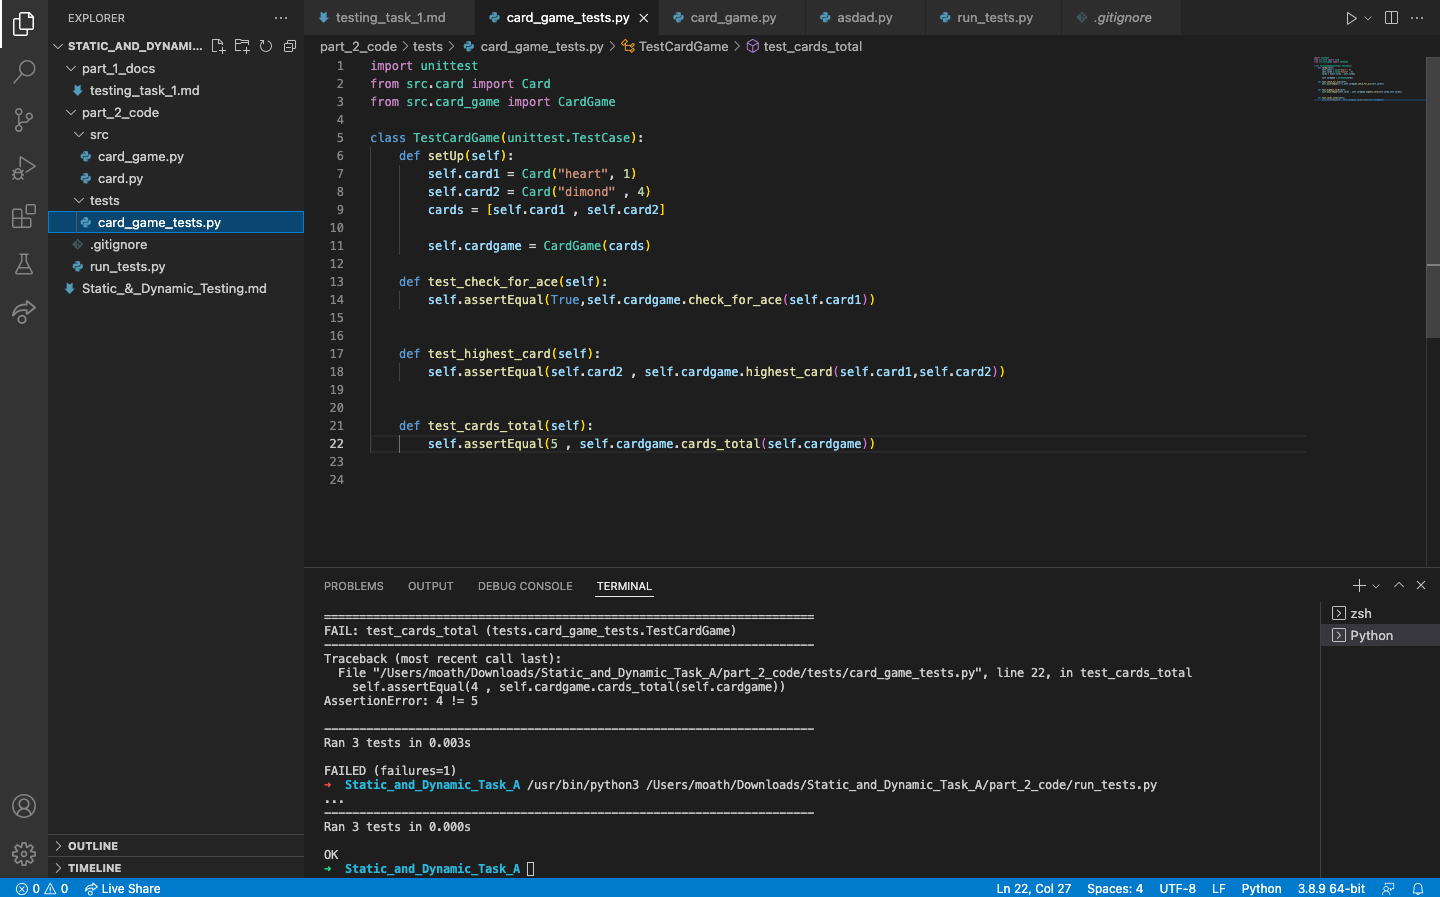
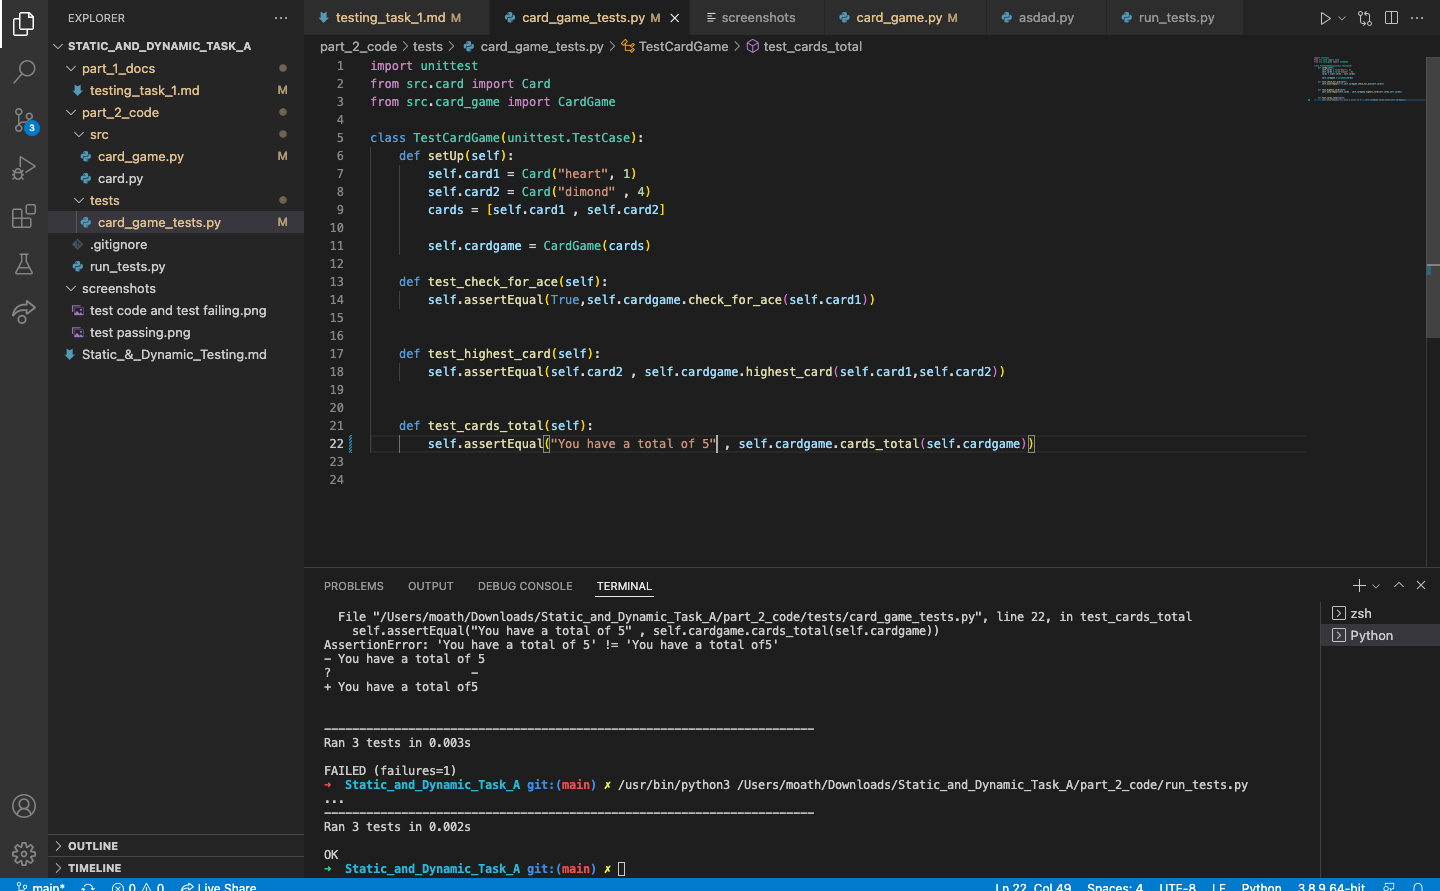
done1

diff --git a/part_2_code/tests/card_game_tests.py b/part_2_code/tests/card_game_tests.py
@@ -19,5 +19,5 @@ class TestCardGame(unittest.TestCase):
 
 
     def test_cards_total(self):
-        self.assertEqual(5 , self.cardgame.cards_total(self.cardgame))      
+        self.assertEqual("You have a total of 5" , self.cardgame.cards_total(self.cardgame))      
 

diff --git a/part_2_code/src/card_game.py b/part_2_code/src/card_game.py
@@ -29,4 +29,4 @@ class CardGame:
    total = 0
    for card in self.cards:
        total += card.value
-   return total  
+   return "You have a total of " + str(total)  

diff --git a/part_1_docs/testing_task_1.md b/part_1_docs/testing_task_1.md
@@ -18,13 +18,13 @@ class CardGame:     # the class should have atributes
 
 
   def check_for_ace(self, card):
-    if card.value = 1:
+    if card.value = 1:  # it should be == instaed of = 
       return True
-    else
+    else                # else : 
       return False
    
 
-  dif highest_card(self, card1 card2):     # def not dif 
+  dif highest_card(self, card1 card2):     # def not dif  and a comma between card1 and card2 
   if card1.value > card2.value:
     return card
   else:
@@ -32,10 +32,10 @@ class CardGame:     # the class should have atributes
   
 
 
-def cards_total(self, cards):    
+def cards_total(self, cards):    # it should be aline with the functions  
   total
   for card in cards:        # self.cards not cards
     total += card.value
-    return "You have a total of" + total
+    return "You have a total of" + total     # cant concatenate int with string  and return should be aline with for 
   
 ```
